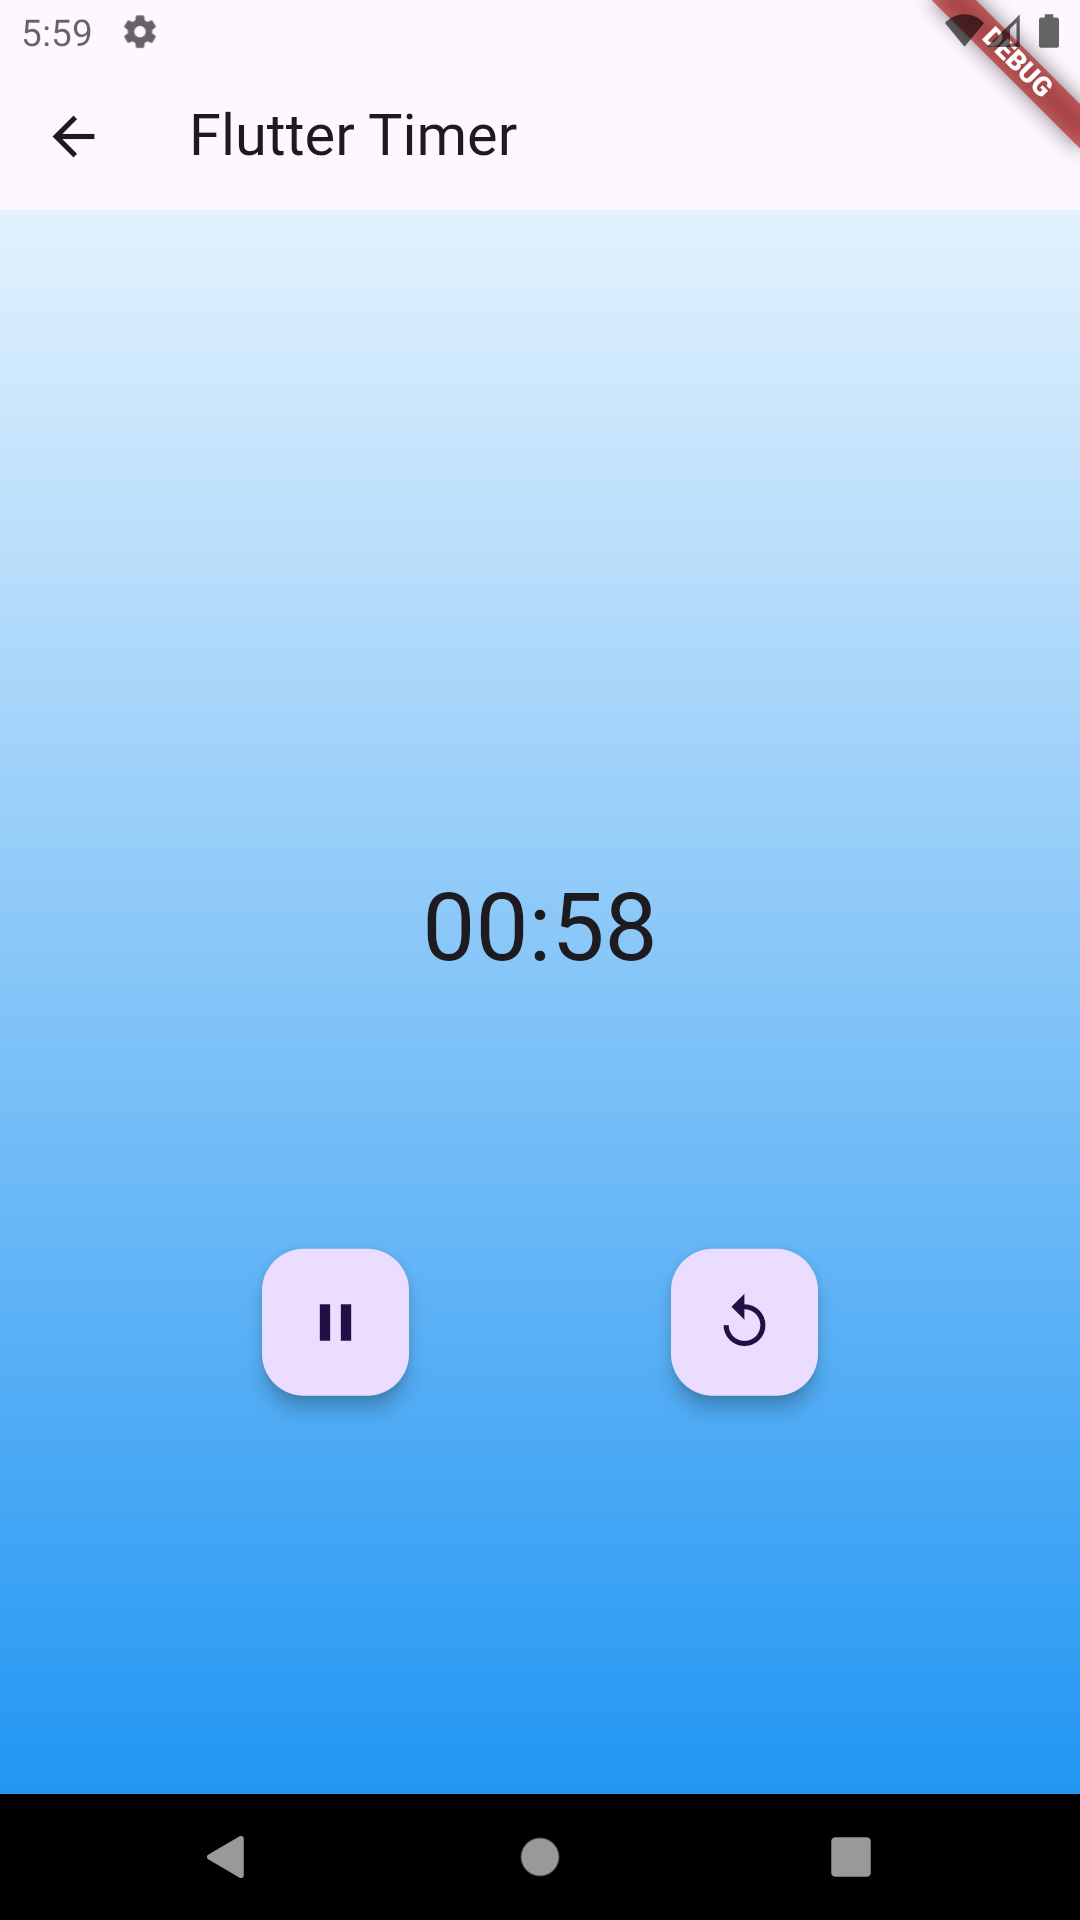
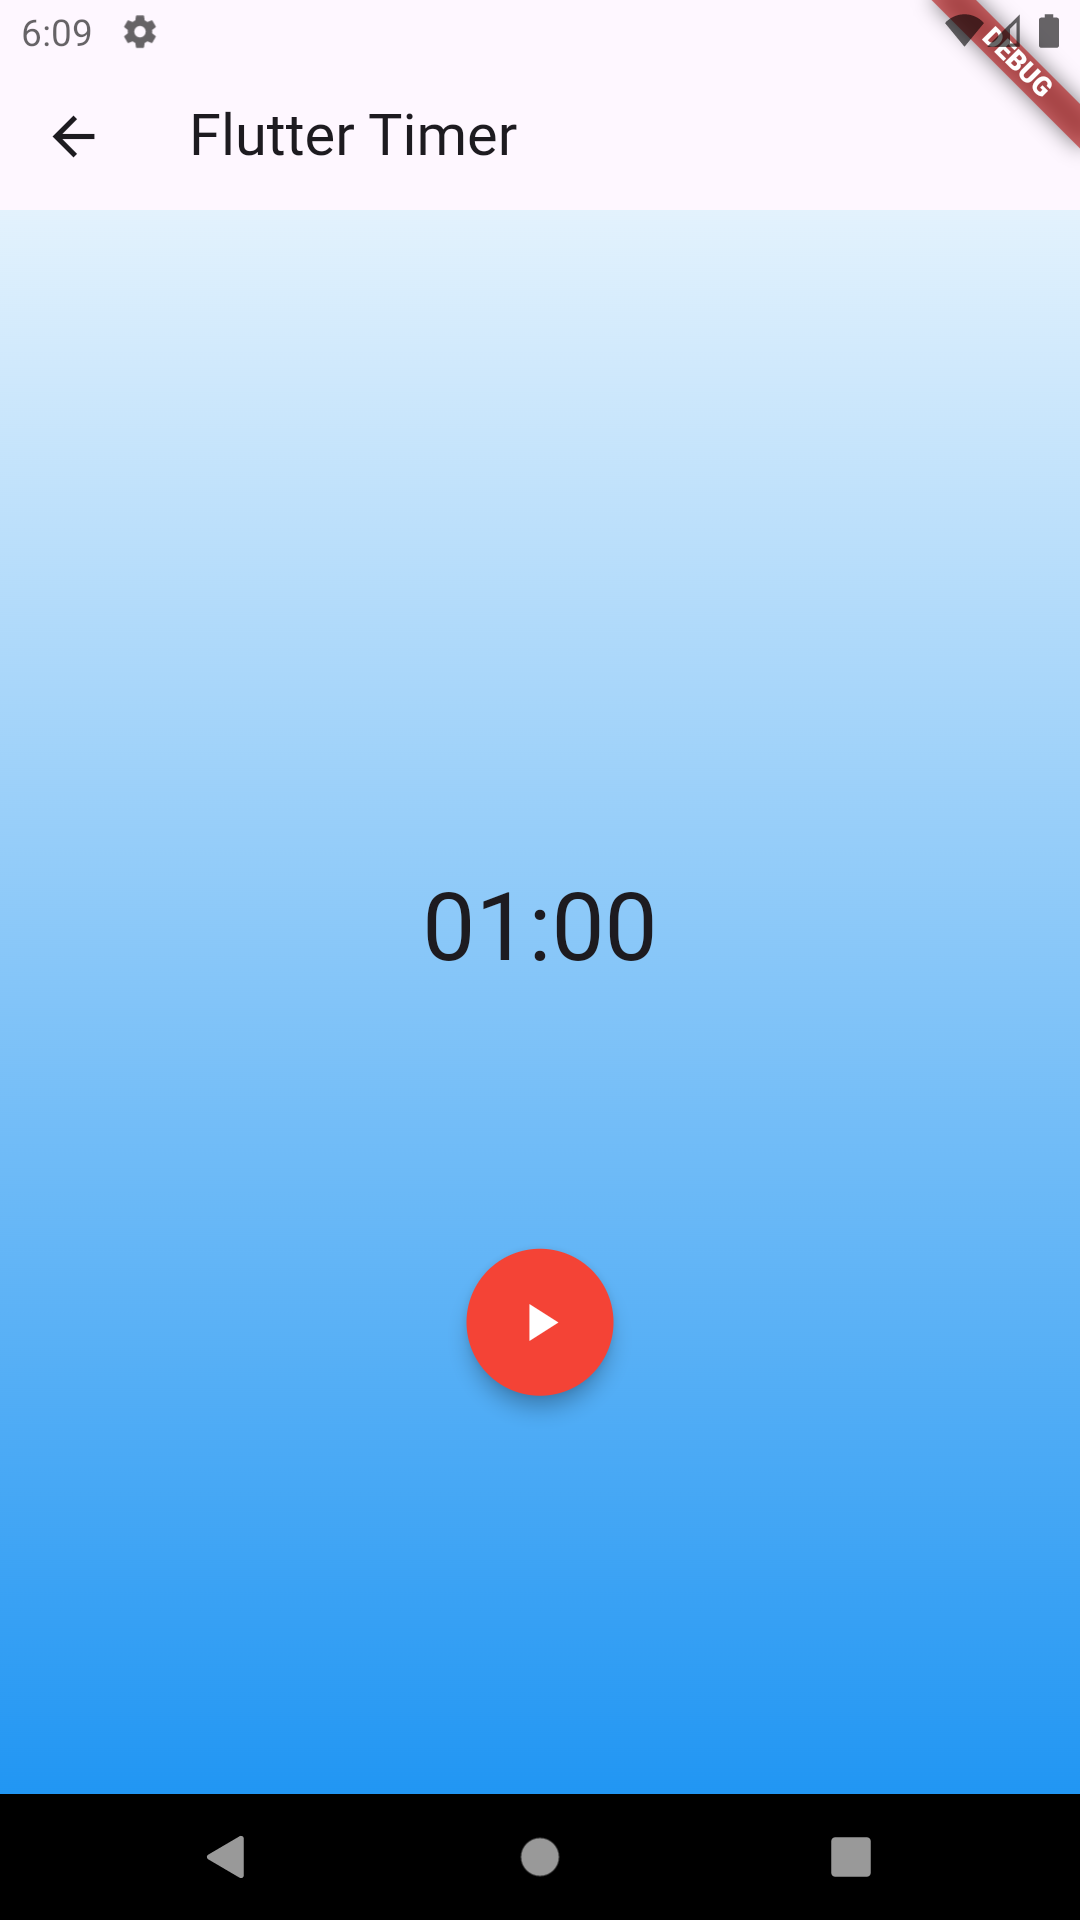
xa
dsd

diff --git a/lib/modules/ticker/view/timer_page.dart b/lib/modules/ticker/view/timer_page.dart
@@ -70,7 +70,9 @@ class Actions extends StatelessWidget {
             ...switch (state) {
               TimerInitial() => [
                 FloatingActionButton(
-                  child: const Icon(Icons.play_arrow),
+                  shape: CircleBorder(),
+                  backgroundColor: Colors.red,
+                  child: const Icon(Icons.play_arrow,color: Colors.white,),
                   onPressed: () => context
                       .read<TimerBloc>()
                       .add(TimerStarted(duration: state.duration)),
@@ -78,31 +80,43 @@ class Actions extends StatelessWidget {
               ],
               TimerRunInProgress() => [
                 FloatingActionButton(
+                  shape: CircleBorder(),
+                  backgroundColor: Colors.red,
+
                   child: const Icon(Icons.pause),
                   onPressed: () =>
                       context.read<TimerBloc>().add(const TimerPaused()),
                 ),
                 FloatingActionButton(
-                  child: const Icon(Icons.replay),
+                  shape: CircleBorder(),
+                  backgroundColor: Colors.red,
+
+                  child: const Icon(Icons.replay,color: Colors.white,),
                   onPressed: () =>
                       context.read<TimerBloc>().add(const TimerReset()),
                 ),
               ],
               TimerRunPause() => [
                 FloatingActionButton(
-                  child: const Icon(Icons.play_arrow),
+                  shape: CircleBorder(),
+                  backgroundColor: Colors.red,
+
+                  child: const Icon(Icons.play_arrow,color: Colors.white,),
                   onPressed: () =>
                       context.read<TimerBloc>().add(const TimerResumed()),
                 ),
                 FloatingActionButton(
-                  child: const Icon(Icons.replay),
+                  child: const Icon(Icons.replay,color: Colors.white,),
                   onPressed: () =>
                       context.read<TimerBloc>().add(const TimerReset()),
                 ),
               ],
               TimerRunComplete() => [
                 FloatingActionButton(
-                  child: const Icon(Icons.replay),
+                  shape: CircleBorder(),
+                  backgroundColor: Colors.red,
+
+                  child: const Icon(Icons.replay,color: Colors.white,),
                   onPressed: () =>
                       context.read<TimerBloc>().add(const TimerReset()),
                 ),
